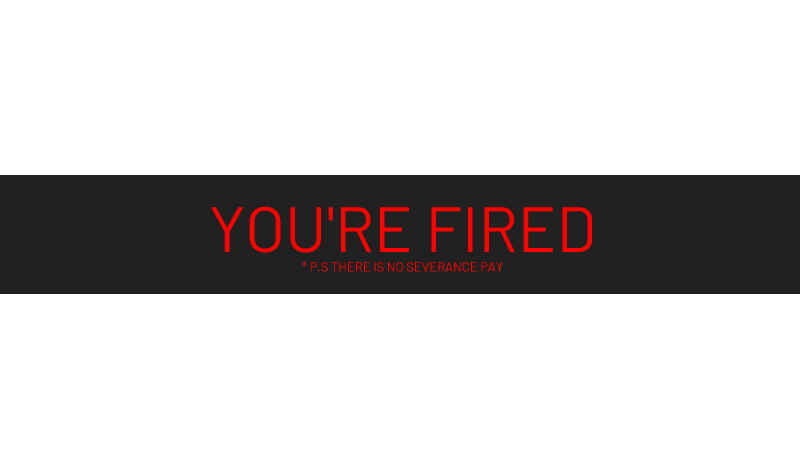
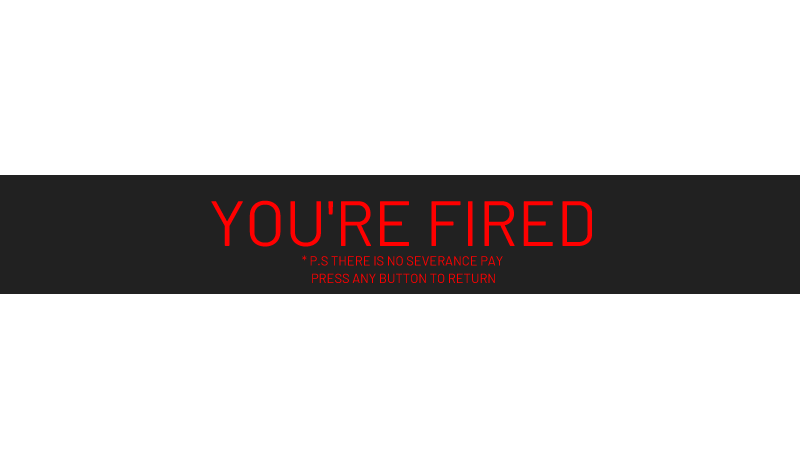
push
push

Changed region(s): [[0.3125, 0.4356, 0.75, 0.6533], [0.25, 0.4356, 0.375, 0.5289]]

diff --git a/CPFramework/Code/Scenes/State - Play/game.c b/CPFramework/Code/Scenes/State - Play/game.c
@@ -78,6 +78,7 @@ Slider BGMSlider, SFXSlider, masterSlider;
 CP_Color knobColor;
 
 CP_Image vignette;
+float FadeIn;
 
 void DrawPauseMenu(void)
 {
@@ -160,6 +161,7 @@ void game_init(void) {
 	InitialiseRooms();
 }
 
+
 void game_update(void) {
 
 	if (CP_Input_KeyTriggered(KEY_ESCAPE))
@@ -222,10 +224,20 @@ void game_update(void) {
 	if (player.currentHealth <= 0 && !player.toDraw)
 	{
 		//Draw you died
-		CP_Image_Draw(youDied, 800, 450, 1600, 900, 170);
+
+		if (FadeIn < 170)
+		{
+			FadeIn += (20.f * DeltaTime());
+	
+		}
+		CP_Image_Draw(youDied, 800, 450, 1600, 900, FadeIn);
+	
+
+
 		if (CP_Input_KeyReleased(KEY_ANY))
 		{
 			//Go back to main menu
+
 
 			StartTransition();
 			nextScene = MAIN;
